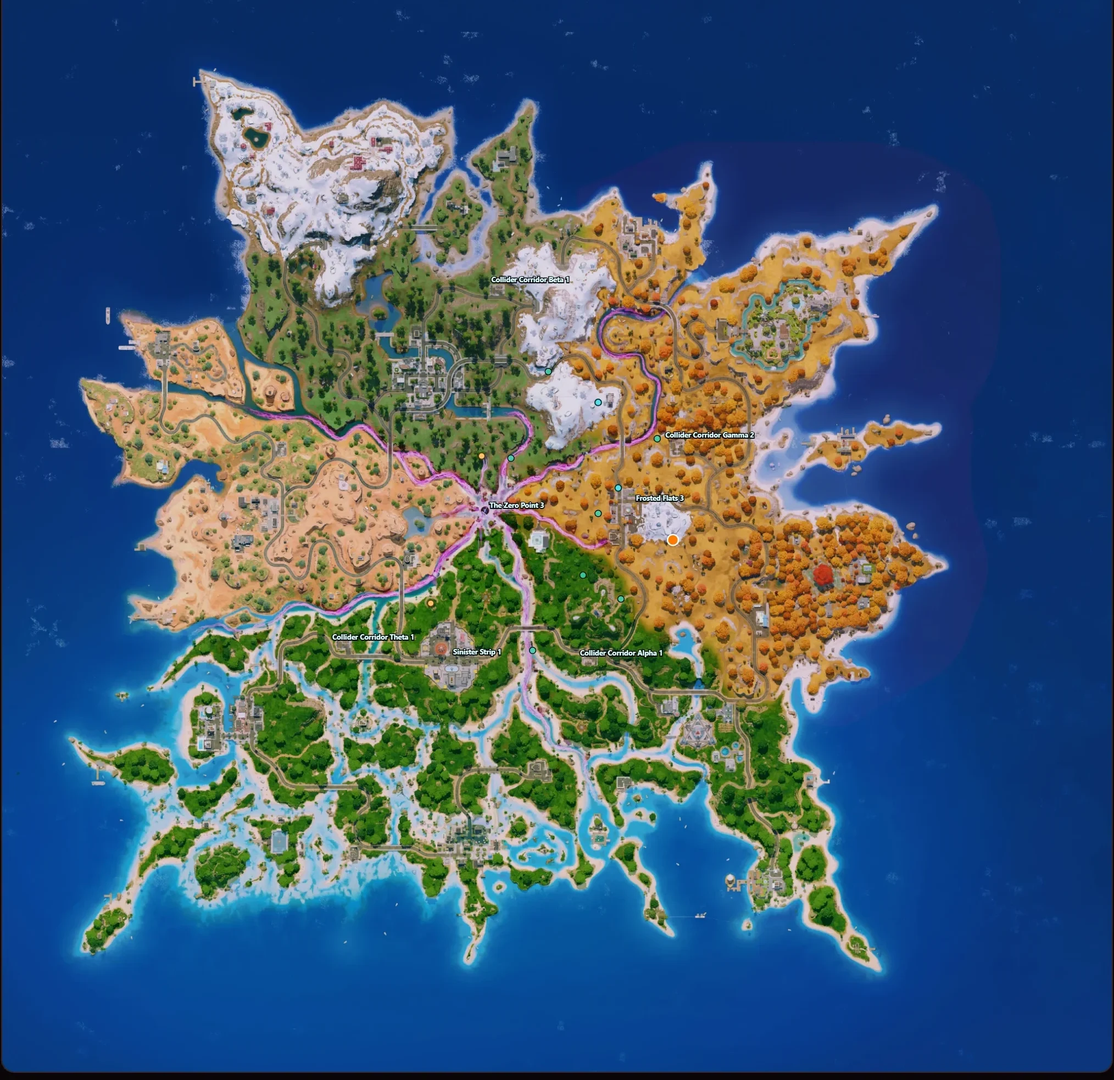
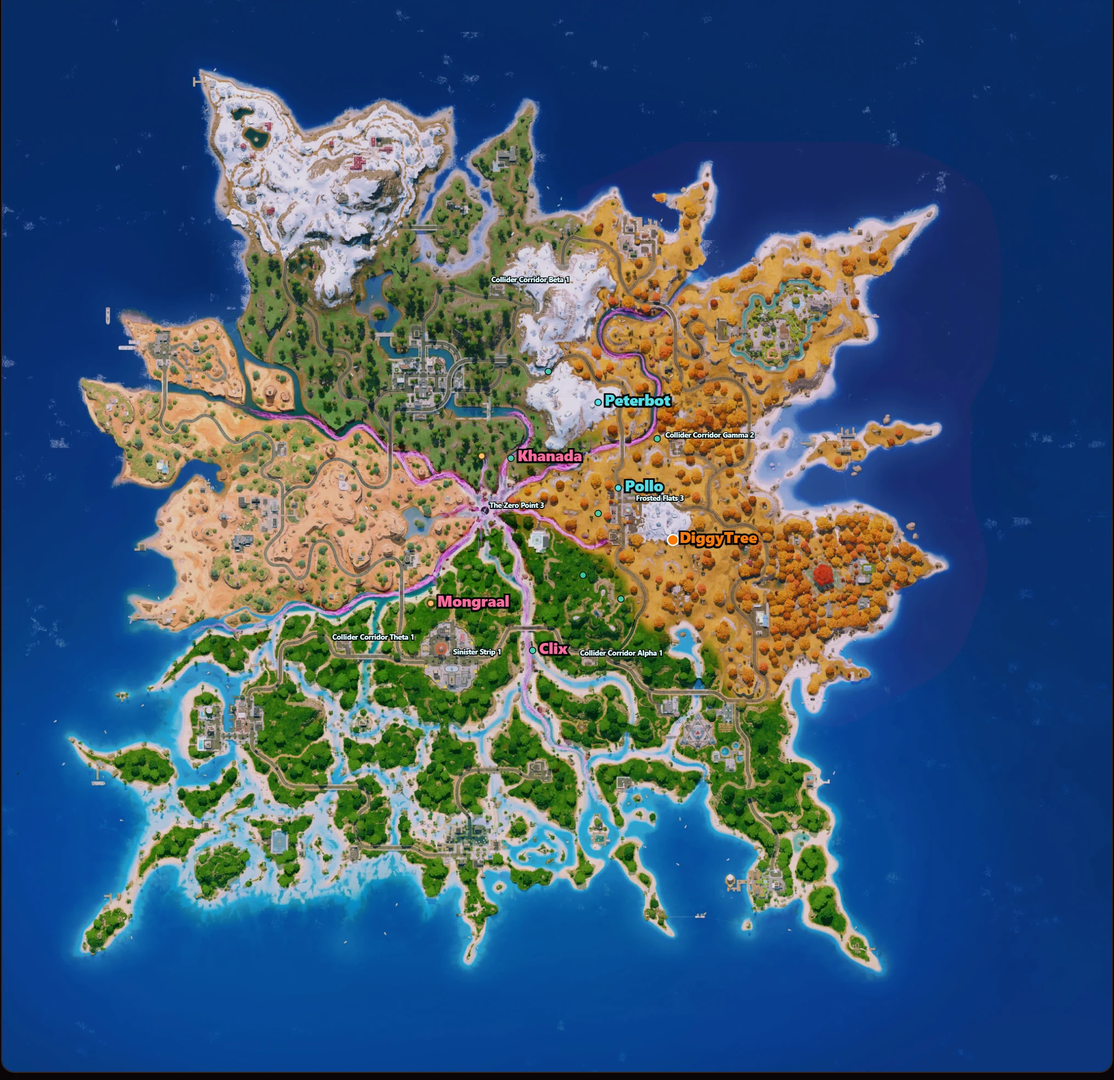
snipemaxxer: smaller hero shot, named players on the map (who dropped where), 0.1.67

diff --git a/src/data/products.ts b/src/data/products.ts
@@ -1104,7 +1104,7 @@ export const products: Product[] = [
     name: 'Snipemaxxer',
     category: 'Fortnite',
     status: 'beta',
-    version: '0.1.66',
+    version: '0.1.67',
     tagline: 'Know who\'s in your lobby.',
     description:
       "Auto-detects your match and names the whole lobby — pros, live streamers, who dropped where, off-region — plus more features to help in-game.",
@@ -1162,7 +1162,7 @@ export const products: Product[] = [
         visual: { kind: 'image', src: '/screenshots/snipemaxxer/scout-map.webp', alt: 'Survivor map — the full current-season Fortnite map with a colour-coded dot for each player\'s last-known position and per-POI head-counts.' },
       },
     ],
-    primaryCta: { label: 'Download for Windows', href: 'https://dl.maxxtopia.com/snipemaxxer/Snipemaxxer-Setup-0.1.66.exe', external: true },
+    primaryCta: { label: 'Download for Windows', href: 'https://dl.maxxtopia.com/snipemaxxer/Snipemaxxer-Setup-0.1.67.exe', external: true },
     secondaryCta: { label: 'Get launch updates', href: waitlistUrl('snipemaxxer'), external: true },
     glyph: '⌖',
     logo: '/logos/snipemaxxer.svg',
